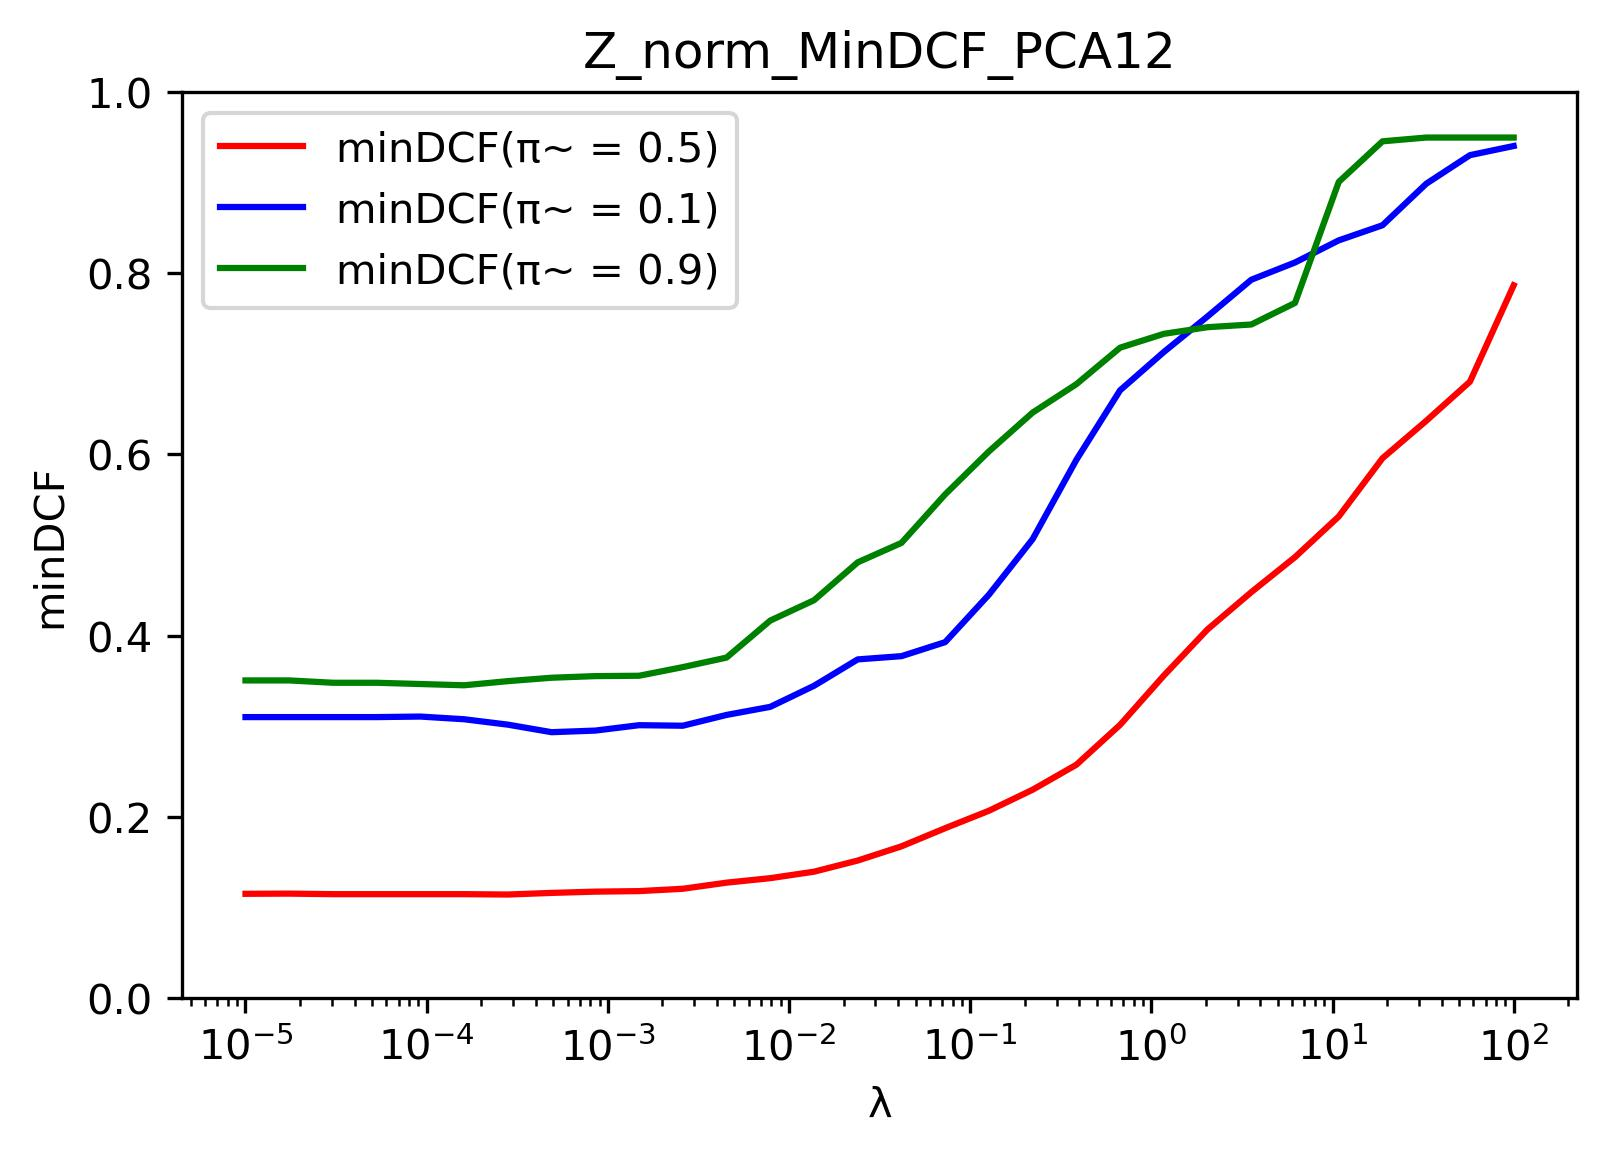
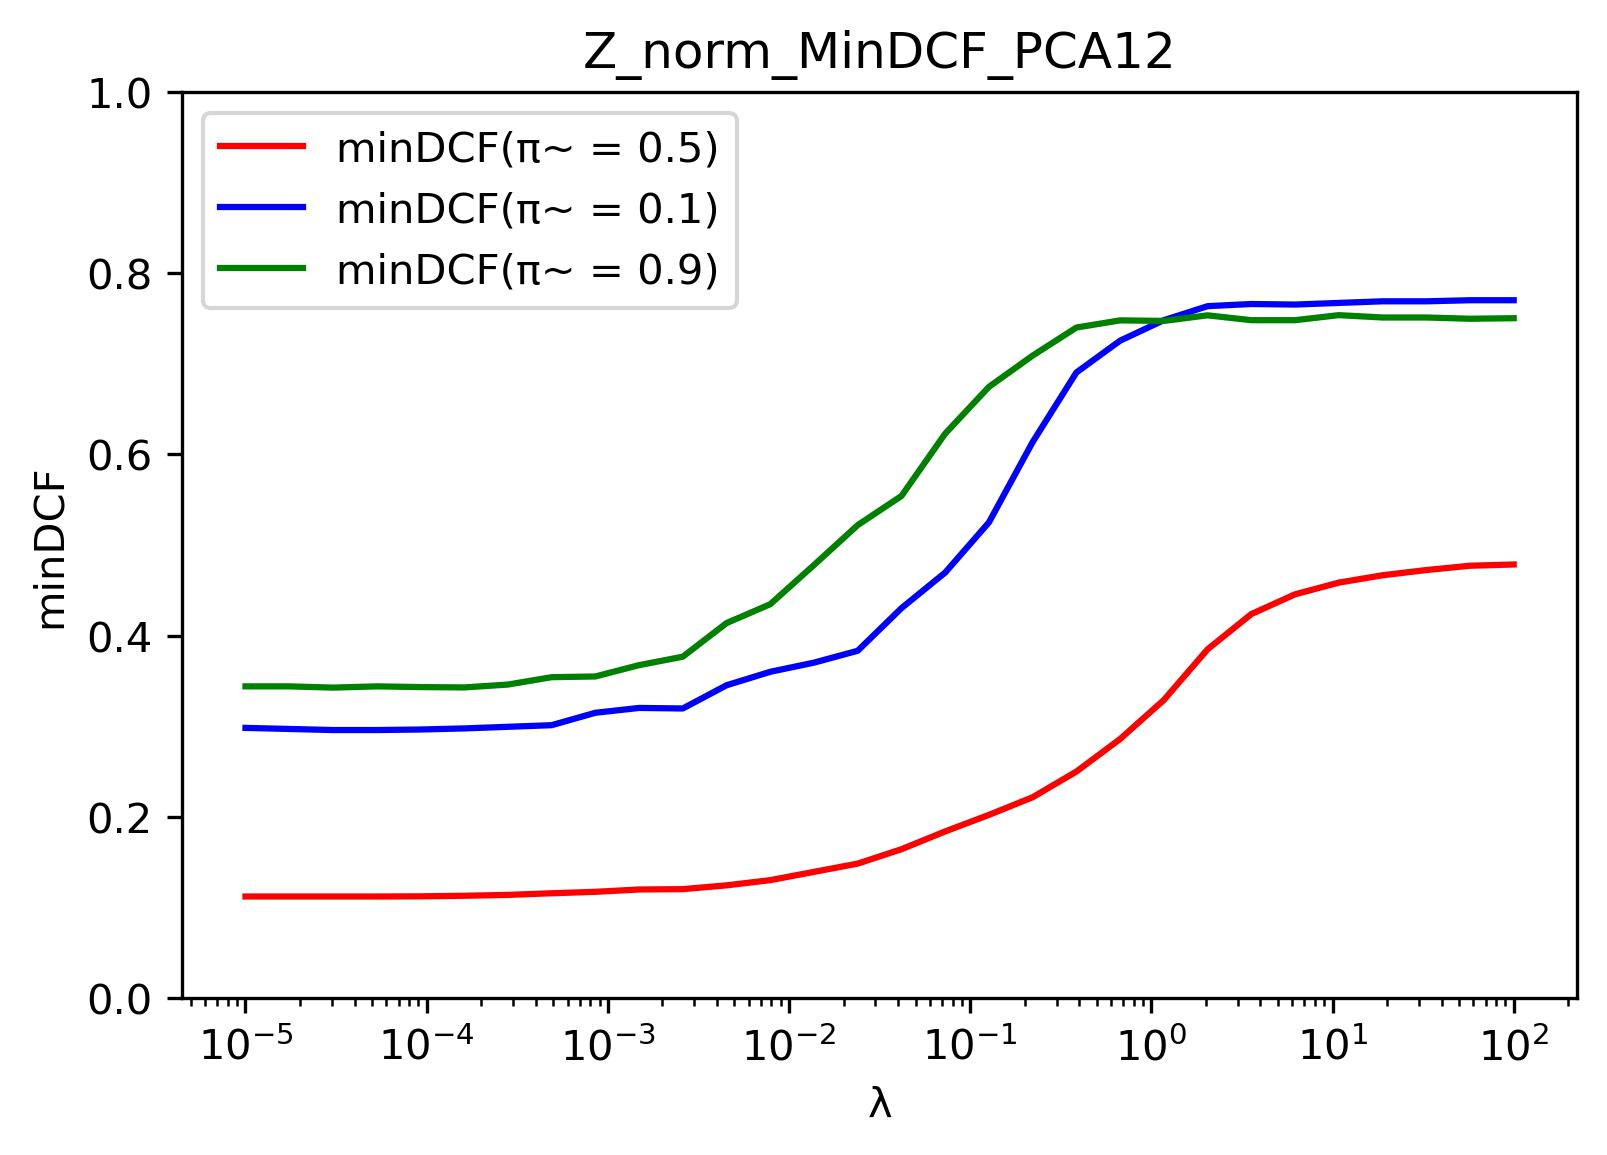
feature: update training functions

diff --git a/code/LR_train.py b/code/LR_train.py
@@ -6,7 +6,7 @@ Created on Tue Jun 13 21:04:52 2023
 """
 
 import numpy
-from Library_gianmarco import logreg_obj_wrap_prof, logreg, Bayes_risk_min_cost, Z_norm, PCA, Ksplit, plot_minDCF_lr
+from Library_gianmarco import logreg_obj_wrapper, logreg, Bayes_risk_min_cost, Z_norm, PCA, Ksplit, plot_minDCF_lr
 from library import load
 import scipy
 
@@ -18,50 +18,50 @@ if __name__ == '__main__':
     l_vec = numpy.logspace(-5, 2, 30)
     print("Logistic Regression RAW feature")
     priors = [0.5, 0.1, 0.9]
-    for m in range(10, 13):
-        print("PCA:", m)
-        minDCs = []
-        for p in priors:
-            print("Prior:", p)
-            P = PCA(D, m)
+    # for m in range(12, 13):
+    #     print("PCA:", m)
+    #     minDCs = []
+    #     for p in priors:
+    #         print("Prior:", p)
+    #         P = PCA(D, m)
     
-            DP = numpy.dot(P.T, D)
+    #         DP = numpy.dot(P.T, D)
             
-            K = 5
-            folds, labels = Ksplit(DP, L, seed=0, K=K)
+    #         K = 5
+    #         folds, labels = Ksplit(DP, L, seed=0, K=K)
             
-            for l in l_vec:
-                scores = []
-                LTEs = []
-                for i in range(K):
-                    DTR = []
-                    LTR = []
-                    for j in range(K):
-                        if j!=i:
-                            DTR.append(folds[j])
-                            LTR.append(labels[j])
-                    DTE = folds[i]
-                    LTE = labels[i]
-                    DTR = numpy.hstack(DTR)
-                    LTR = numpy.hstack(LTR)
-                    logreg_obj = logreg_obj_wrap_prof(DTR, LTR, l)
-                    x, f, d = scipy.optimize.fmin_l_bfgs_b(func=logreg_obj, 
-                                                           x0=numpy.zeros(DTR.shape[0] + 1),
-                                                           approx_grad=True)
-                    s, LP = logreg(x, DTE)
-                    scores.append(s)
-                    LTEs.append(LTE)
-                scores = numpy.hstack(scores)
-                orderedLabels = numpy.hstack(LTEs)
-                min_cost = Bayes_risk_min_cost(p, 1, 1, scores, orderedLabels)
-                print("min cost: %.3f" %min_cost, "lambda: ", l)
-                minDCs.append(min_cost)
-        plot_minDCF_lr(l_vec, minDCs[0:len(l_vec)], minDCs[len(l_vec):2*len(l_vec)], minDCs[2*len(l_vec):], filename="RAW_PCA" + str(m), title="RAW_MinDCF_PCA" + str(m))
-        print()
+    #         for l in l_vec:
+    #             scores = []
+    #             LTEs = []
+    #             for i in range(K):
+    #                 DTR = []
+    #                 LTR = []
+    #                 for j in range(K):
+    #                     if j!=i:
+    #                         DTR.append(folds[j])
+    #                         LTR.append(labels[j])
+    #                 DTE = folds[i]
+    #                 LTE = labels[i]
+    #                 DTR = numpy.hstack(DTR)
+    #                 LTR = numpy.hstack(LTR)
+    #                 logreg_obj = logreg_obj_wrapper(DTR, LTR, l, p)
+    #                 x, f, d = scipy.optimize.fmin_l_bfgs_b(func=logreg_obj, 
+    #                                                        x0=numpy.zeros(DTR.shape[0] + 1),
+    #                                                        approx_grad=True)
+    #                 s, LP = logreg(x, DTE)
+    #                 scores.append(s)
+    #                 LTEs.append(LTE)
+    #             scores = numpy.hstack(scores)
+    #             orderedLabels = numpy.hstack(LTEs)
+    #             min_cost = Bayes_risk_min_cost(p, 1, 1, scores, orderedLabels)
+    #             print("min cost: %.3f" %min_cost, "lambda: ", l)
+    #             minDCs.append(min_cost)
+    #     plot_minDCF_lr(l_vec, minDCs[0:len(l_vec)], minDCs[len(l_vec):2*len(l_vec)], minDCs[2*len(l_vec):], filename="RAW_PCA" + str(m), title="RAW_MinDCF_PCA" + str(m))
+    #     print()
     
     D = Z_norm(D)
     print("Logistic Regression Z-norm features")
-    for m in range(10, 13):
+    for m in range(12, 13):
         print("PCA:", m)
         minDCs = []
         for p in priors:
@@ -88,7 +88,7 @@ if __name__ == '__main__':
                     LTE = labels[i]
                     DTR = numpy.hstack(DTR)
                     LTR = numpy.hstack(LTR)
-                    logreg_obj = logreg_obj_wrap_prof(DTR, LTR, l)
+                    logreg_obj = logreg_obj_wrapper(DTR, LTR, l, p)
                     x, f, d = scipy.optimize.fmin_l_bfgs_b(func=logreg_obj, 
                                                            x0=numpy.zeros(DTR.shape[0] + 1),
                                                            approx_grad=True)

diff --git a/code/Library_gianmarco.py b/code/Library_gianmarco.py
@@ -239,15 +239,27 @@ def Ksplit(D, L, seed=0, K=3):
         labels.append(L[idx[(i*numberOfSamplesInFold): ((i+1)*(numberOfSamplesInFold))]])
     return folds, labels
    
-def logreg_obj_wrap(DTR, LTR, l):
+# def logreg_obj_wrap(DTR, LTR, l):
+#     def logreg_obj(v):
+#         w, b = v[0:-1], v[-1]
+#         n = DTR.shape[1]
+#         ris = 0
+#         for i in range(n):
+#             z = 2*LTR[i] - 1
+#             ris += numpy.logaddexp(0, -z*(numpy.dot(w.T, DTR.T[i])+b))
+#         return l/2 * numpy.linalg.norm(w)**2 + (ris/n)
+#     return logreg_obj
+
+def logreg_obj_wrapper(D, L, l, pi):
+    Z = (L * 2) - 1
+    M = D.shape[0]
+
     def logreg_obj(v):
-        w, b = v[0:-1], v[-1]
-        n = DTR.shape[1]
-        ris = 0
-        for i in range(n):
-            z = 2*LTR[i] - 1
-            ris += numpy.logaddexp(0, -z*(numpy.dot(w.T, DTR.T[i])+b))
-        return l/2 * numpy.linalg.norm(w)**2 + (ris/n)
+        w, b = mcol(v[0:M]), v[-1]
+        c1 = 0.5 * l * (numpy.linalg.norm(w) ** 2)
+        c2 = ((pi) * (L[L == 1].shape[0] ** -1)) * numpy.logaddexp(0, -Z[Z == 1] * (numpy.dot(w.T, D[:, L == 1]) + b)).sum()
+        c3 = ((1 - pi) * (L[L == 0].shape[0] ** -1)) * numpy.logaddexp(0, -Z[Z == -1] * (numpy.dot(w.T, D[:, L == 0]) + b)).sum()
+        return c1 + c2 + c3
     return logreg_obj
 
 def logreg_obj_wrap_prof(DTR, LTR, l):
